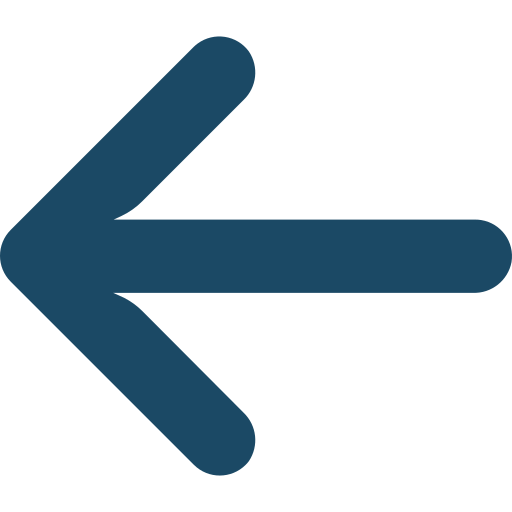
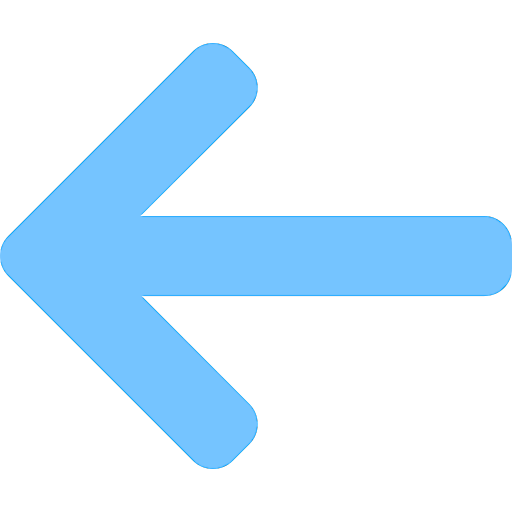
done ca1.1 subtopic, copy and paste later

Changed region(s): [[0.0, 0.0625, 1.0, 0.9375]]

diff --git a/main/html/content-areas/subtopic-styles.css b/main/html/content-areas/subtopic-styles.css
@@ -1,44 +1,58 @@
 :root{
-    --header-bg-color: #1b4965;
-    --header-text-color:white;
+    --header-bg-color: #CAE9FF;
+    --header-text-color: black;
+    --border-header: #031825;
     --border-line-color: black;
-    --both-outer-box-color: linear-gradient(to bottom, #5FA8D3, #5FA8D3);
-    --footer-color: #1b4965;
+    --both-outer-box-color: linear-gradient(#5FA8D3, #1b4965);
+    --shadow-jitsu-color: #1c3748;
+    --footer-color: #CAE9FF;
     --form-bg-color: #bee7fe;
     --nav-1-color: #1B4965;
 
+     --container-color: white ;
+
     --switch-day-night: #69B4E0;
     --switch-fill-color: #205274;
+    
 
     --main-topic-box-color:#bee7fe;
+    --main-border: #69B4E0;
 
     --side-bar-color: #1B4965;
     --sub-menu-hover: rgba(50,120,160, 0.7);
     --sub-menu-background: rgba(37,97,133, 0.7);
 
-    --quiz-bg-color: white;
+    --quiz-bg-color: #75c6f5;
 
 }
-body.darkmode{
-    --header-bg-color: #002139;
-    --header-text-color:white;
-    --border-line-color: white;
-    --both-outer-box-color: linear-gradient(to bottom,#0A192F, #001524);
-    --footer-color: #002139;
-    --form-bg-color: #172A46;
+body.darkmode {
+    --header-bg-color: #031825;
+    --header-text-color: #E6F4FF;
+    --border-header: #69B4E0;
+    --border-line-color: rgb(196, 196, 196);
+
+    --both-outer-box-color: linear-gradient(to bottom, #003A63, #001524);
+    --shadow-jitsu-color: #0e4e73;
+    --footer-color: #020e15;
+
+    --form-bg-color: #0a192f;
     --nav-1-color: #002139;
-    
+
+    --container-color: #031825;
+
     --switch-day-night: #205274;
     --switch-fill-color: #69B4E0;
 
-    --main-topic-box-color: #172A46;
-    
+    --main-topic-box-color: #0a192f;
+    --main-border: #1b4965;
+
     --side-bar-color: #002139;
     --sub-menu-hover: rgba(11, 46, 86, 0.7);
     --sub-menu-background: rgba(9, 39, 69, 0.7);
 
-    --quiz-bg-color: #0A192F;
+    --quiz-bg-color: #003A63;
 }
+
 
 #theme-switch{
     top: 20px;
@@ -94,7 +108,7 @@ header a {
 }
 
 .header-text{
-    color: white;
+    color: var(--header-text-color);
     text-align: center;
     width: 100%;
     font-size: 18px;
@@ -113,40 +127,54 @@ header a {
     
 }
 
+.container{
+  border-radius: 20px;
+  background-color: var(--container-color);
+  padding-top: 0.5rem;
+  padding-bottom: 1.5rem;
+  width: 90%;
+  max-width: 1000px;
+  margin: 2rem auto 0 auto;
+  box-shadow: var(--shadow-jitsu-color) 0px 0px 10px 1px;
+}
+
 main {
     max-width: 800px;
     margin: 30px auto;
     border-radius: 45px;
     background-color: var(--main-topic-box-color);
-    border: solid 3px #1b4965;
+    border: solid 3px var(--main-border);
     padding: 10px;
     font-family: 'Segoe UI', sans-serif;
 
 }
 
 .heading {
+    color: var(--border-header);
     text-align: center;
     font-size: 32px;
     margin: 8px 0 15px 0;
     padding-bottom: 8px;
-    border-bottom: solid 3px var(--border-line-color);
+    border-bottom: solid 3px var(--border-header);
 }
 
 .top-sub-heading {
+    color: var(--border-header);
     text-align: center;
     font-size: 20px;
     margin-top: 8px;
     padding-bottom: 3px;
-    border-bottom: solid 2px var(--border-line-color);
+    border-bottom: solid 2px var(--border-header);
 }
 
 .sub-heading {
+    color: var(--border-header);
     text-align: center;
     font-size: 20px;
     margin-top: 8px;
     padding-bottom: 3px;
-    border-bottom: solid 2px var(--border-line-color);
-    border-top: solid 2px var(--border-line-color);
+    border-bottom: solid 2px var(--border-header);
+    border-top: solid 2px var(--border-header);
 }
 
 h4 {
@@ -176,7 +204,7 @@ body {
 
 footer {
     background-color: var(--footer-color);
-    color: white;
+    color: var(--border-line-color);
     text-align: center;
     padding: 10px;
 }
@@ -187,18 +215,18 @@ footer {
 
 form{
     font-family: 'Segoe UI', sans-serif;
-    font-size: 18px;
+    font-size: 2rem;
     margin: 30px auto;
     border-radius: 20px;
     background-color: var(--form-bg-color);
-    border: solid 3px #1b4965;
+    border: solid 3px var(--main-border);
     padding: 10px;
     max-width: 800px;
 }
 
 input[type=submit] {
-  background-color: #1b4965;
-  border: solid 3px #1b4965;
+  background-color: #0e68a0;
+  border: solid 3px #0e68a0;
   border-radius: 10px;
   color: white;
   padding: 10px;
@@ -217,17 +245,17 @@ label {
 select {
   padding: 10px;
   font-size: 15px;
-  border: 2px solid #1b4965;
+  border: 2px solid #0e68a0;
   border-radius: 8px;
-  background-color: #1b4965;
+  background-color: #0e68a0;
   color: white;
   cursor: pointer;
 }
 
 select:focus {
-  border-color: #0077cc;
+  border-color: #0e68a0;
   outline: none;
-  background-color: #1b4965;
+  background-color: #0e68a0;
   color: white;
 }
 
@@ -244,26 +272,20 @@ arrow-Nav a {
 }
 
 
-#arrow {
-    background-color: #bee7fe;
+.arrow {
     display: block;
     margin: 0;
-    border: 0;
-    border-radius: 5px;
     object-fit: fill;
     display: inline-flex;
     flex-direction: column;
     align-items: center;
     justify-content: center;
-    width: 50px;
-    height: 50px;
-    margin: 20px 15px 20px 15px;
-    border-radius: 20px;
-    color: inherit;
-    border : solid 3px #1b4965;;
-    border-radius : 20px;
-    background-color: #bee7fe;    
+    width: 4rem;
+    height: 4rem;
+    border : none;
+    border-radius : 20px;;    
     margin: 15px 20px 0 20px;
+    color: var(--border-header);
 }
 
 .overlay {
@@ -384,6 +406,13 @@ arrow-Nav a {
   .sidenav a {font-size: 18px;}
 }
 
+span {
+color: var(--border-line-color);
+display: flex;
+align-items: center;
+justify-content: center;
+}
+
 
 /* QUIZ STYLING */
 
@@ -391,31 +420,33 @@ arrow-Nav a {
       max-width: 500px;
       margin: 40px auto;
       padding: 20px;
-      border: 2px solid var(--border-line-color);
+      border: 1px solid var(--main-border);
       border-radius: 12px;
-      box-shadow: 0 4px 8px rgba(0,0,0,0.1);
       font-family: Arial, sans-serif;
       background-color: var(--quiz-bg-color);
     }
 
     .quiz-question {
-      font-size: 1.2em;
+      font-size: 1.3em;
       margin-bottom: 15px;
+      color: var(--border-line-color);
     }
+
     .quiz-options button {
+      color: var(--border-line-color);
       display: block;
       width: 100%;
       margin: 8px 0;
       padding: 10px;
-      border: 1px solid #aaa;
+      border: 1px solid var(--main-border);
       border-radius: 8px;
-      background: #f9f9f9;
+      background-color: var(--container-color);
       cursor: pointer;
       font-size: 1em;
       transition: background 0.2s;
     }
     .quiz-options button:hover:not(:disabled) {
-      background: #eee;
+      background: #69B4E0;
     }
     .quiz-options button.correct {
       background: #c8e6c9; /* green */

diff --git a/main/html/content-areas/CA1 - Problem Solving/subtopic/1.1-computational-thinking/1.1-Computational-Thinking.html b/main/html/content-areas/CA1 - Problem Solving/subtopic/1.1-computational-thinking/1.1-Computational-Thinking.html
@@ -91,7 +91,7 @@
     })
 
   </script>
-    
+    <div class= "container">
     <form>
         <label for="sections">Jump to Section:</label>
         <select name="sections" id="sections">
@@ -116,8 +116,9 @@
         <br>
         <input type="submit" value="Submit">
     </form>
-
+    
     <main>
+
         <h2 class="heading">Subtopic 1.1: Computational Thinking</h2>
         
         <h3 class="top-sub-heading" id="1.1.1">1.1.1 - The definition and Purpose of Computational Thinking</h3>
@@ -738,16 +739,16 @@
     // Start quiz
     showQuestion();
   </script>
-    
     </main>
+    </div>
     
     <arrow-Nav>
         <a href="../../problem-solving.html" id="back arrow-link">
-            <img src="../../../../../images/back-arrow.png" alt="back arrow" width="100" height="100" id="arrow"/>
+            <img src="../../../../../images/back-arrow.png" alt="back arrow" width="100" height="100" class="arrow"/>
         </a>
 
         <a href="../1.2-algorithmic-design/1.2-algorithmic-design.html" id="next arrow-link">
-            <img src="../../../../../images/next-arrow.png" alt="next arrow" width="100" height="100" id="arrow"/>
+            <img src="../../../../../images/next-arrow.png" alt="next arrow" width="100" height="100" class="arrow"/>
         </a>
     </arrow-Nav> 
 

diff --git a/main/html/content-areas/styles.css b/main/html/content-areas/styles.css
@@ -1,6 +1,6 @@
 :root{
     --header-bg-color: #CAE9FF;
-    --both-outer-box-color:  linear-gradient(#5FA8D3, #1b4965);
+    --both-outer-box-color: linear-gradient(#5FA8D3, #1b4965);
     --footer-color: #CAE9FF;
     --sub-topic-box-color: #CAE9FF;
     --border-line-color: black;
@@ -11,6 +11,7 @@
     --switch-day-night: #69B4E0;
     --switch-fill-color: #205274;
 
+    
     --side-bar-color: #1B4965;
     --sub-menu-hover: rgba(50,120,160, 0.7);
     --sub-menu-background: rgba(37,97,133, 0.7);
